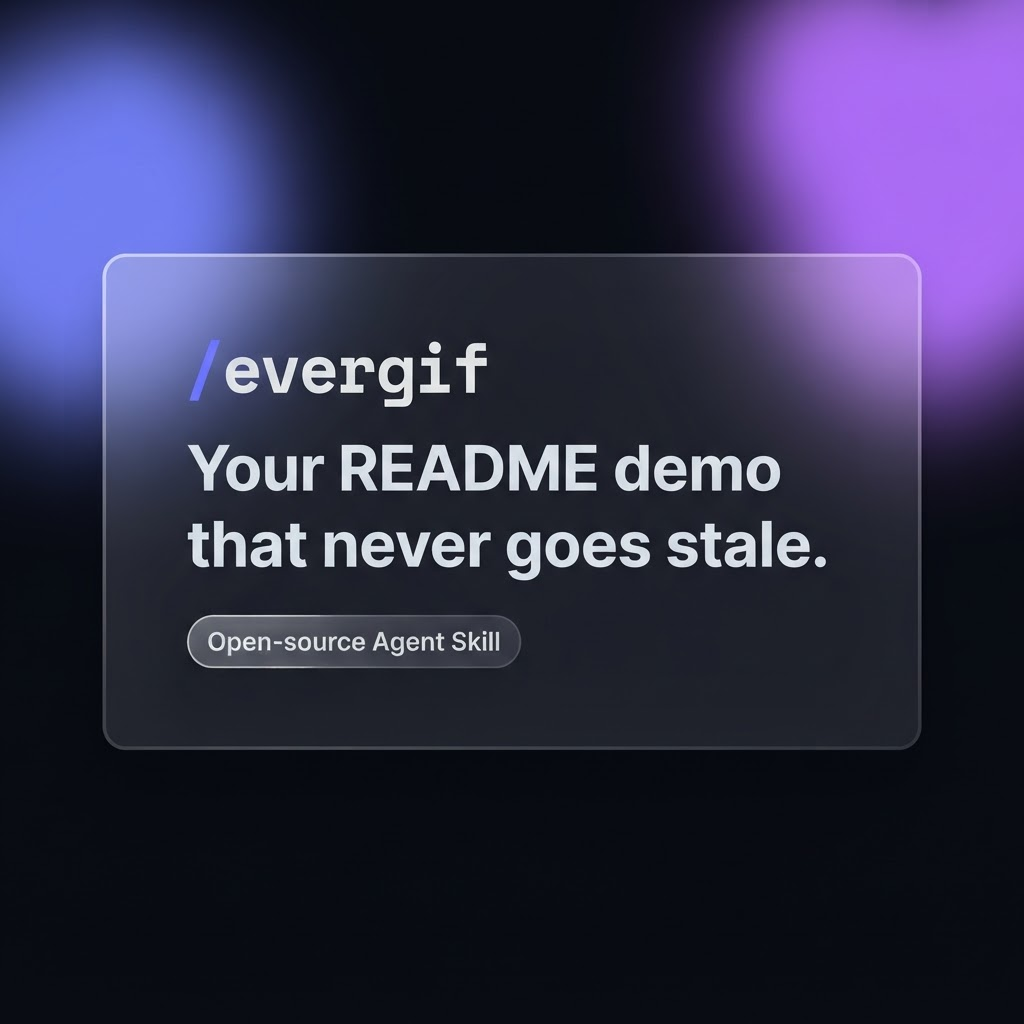
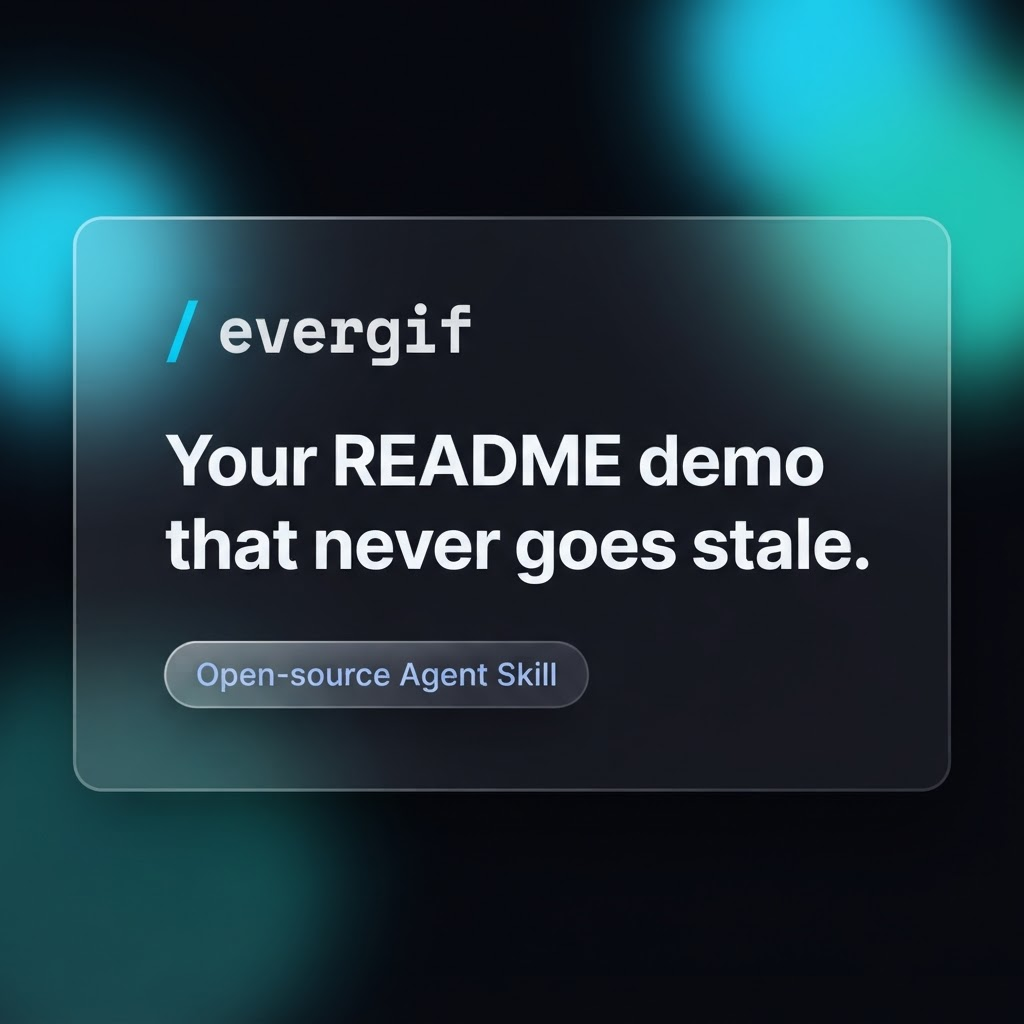
Swap accent palette from purple to electric cyan/teal

diff --git a/app/globals.css b/app/globals.css
@@ -9,9 +9,9 @@
   --color-border-strong: rgba(255, 255, 255, 0.14);
   --color-surface: rgba(255, 255, 255, 0.03);
   --color-surface-2: rgba(255, 255, 255, 0.06);
-  --color-accent: #7c85ff;
-  --color-accent-2: #b06bff;
-  --color-accent-foreground: #ffffff;
+  --color-accent: #22d3ee;
+  --color-accent-2: #2dd4bf;
+  --color-accent-foreground: #04121a;
 
   --font-sans: var(--font-inter), ui-sans-serif, system-ui, sans-serif;
   --font-mono: var(--font-mono-jb), ui-monospace, 'SFMono-Regular', monospace;
@@ -83,7 +83,7 @@
   height: 46rem;
   top: -16rem;
   left: -10rem;
-  background: radial-gradient(circle at center, #4b46c9 0%, transparent 68%);
+  background: radial-gradient(circle at center, #0e7f96 0%, transparent 68%);
   animation: aurora-drift-a 22s ease-in-out infinite alternate;
 }
 .aurora::after {
@@ -91,7 +91,7 @@
   height: 40rem;
   top: -8rem;
   right: -12rem;
-  background: radial-gradient(circle at center, #7d34c0 0%, transparent 68%);
+  background: radial-gradient(circle at center, #0f7d6b 0%, transparent 68%);
   animation: aurora-drift-b 26s ease-in-out infinite alternate;
 }
 /* faint grid tint across the whole page, masked toward the top */
